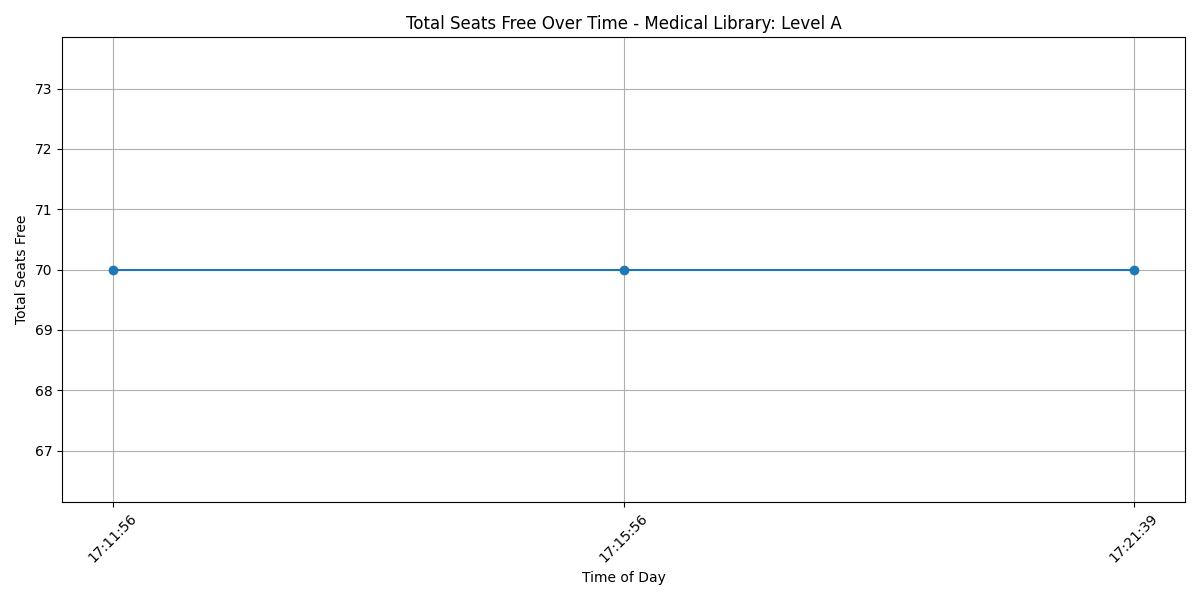
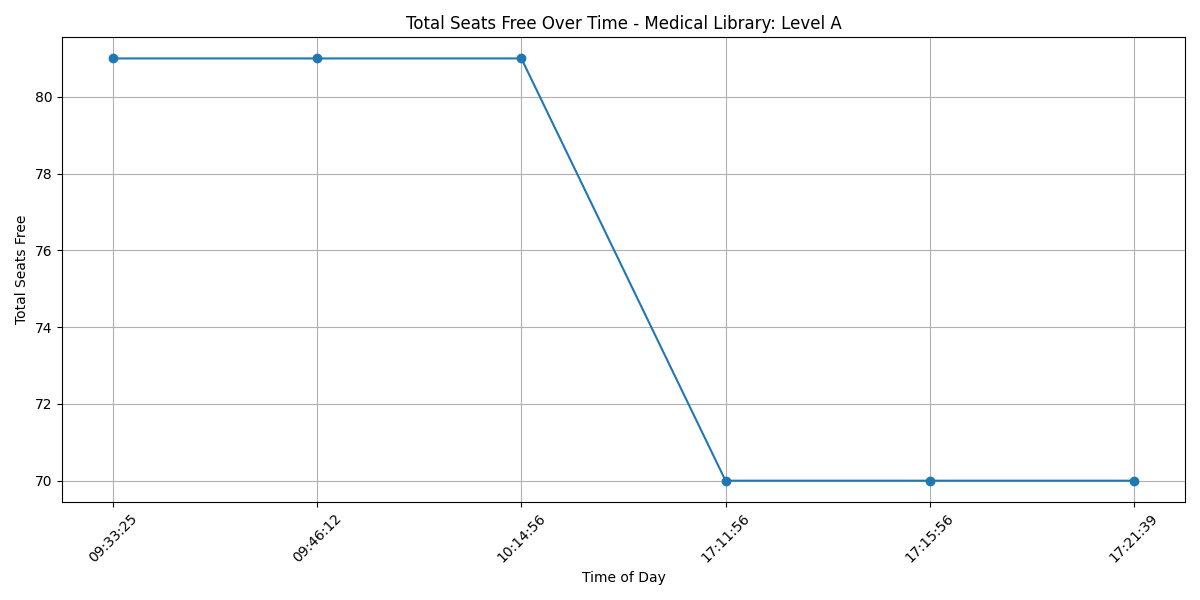
Doesn't crash on ??

diff --git a/graph_plotter.py b/graph_plotter.py
@@ -7,8 +7,17 @@ import os
 file_path = 'seat_availability.csv'
 data = pd.read_csv(file_path)
 
+# Remove rows where 'Seats Free' contains '??'
+data = data[data['Seats Free'] != '??']
+
 # Convert the 'Timestamp' column to datetime objects
 data['Timestamp'] = pd.to_datetime(data['Timestamp'])
+
+# Convert 'Seats Free' column to numeric (just in case there are any other non-numeric values)
+data['Seats Free'] = pd.to_numeric(data['Seats Free'], errors='coerce')
+
+# Drop rows where 'Seats Free' could not be converted (i.e., still NaN)
+data = data.dropna(subset=['Seats Free'])
 
 # Extract only the time part of the timestamp for plotting
 data['Time'] = data['Timestamp'].dt.strftime('%H:%M:%S')
@@ -25,7 +34,7 @@ for location in locations:
     # Filter data for the current location
     location_data = data[data['Location'] == location]
     
-    # Group the data by 'Time' and sum the 'Seats Free' for each time point
+    # Group the data by 'Time' and compute the mean 'Seats Free' for each time point
     time_grouped = location_data.groupby('Time')['Seats Free'].mean().reset_index()
     
     # Plotting
@@ -39,7 +48,6 @@ for location in locations:
     plt.tight_layout()
     
     # Save the plot as a PNG file
-    # Replace spaces and special characters in the location name for a valid filename
     safe_location_name = location.replace(' ', '_').replace(':', '').replace('(', '').replace(')', '')
     plt.savefig(os.path.join(output_dir, f'{safe_location_name}.png'))
     plt.close()
